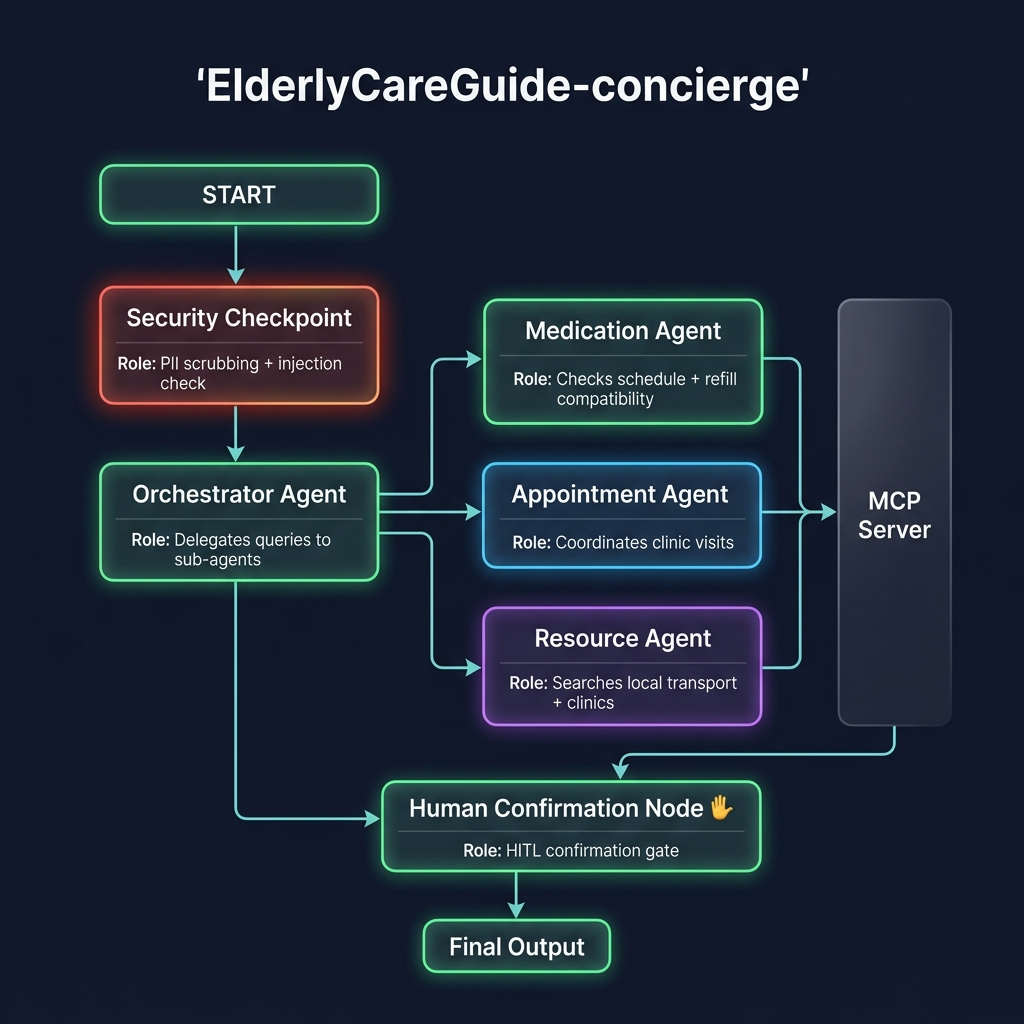
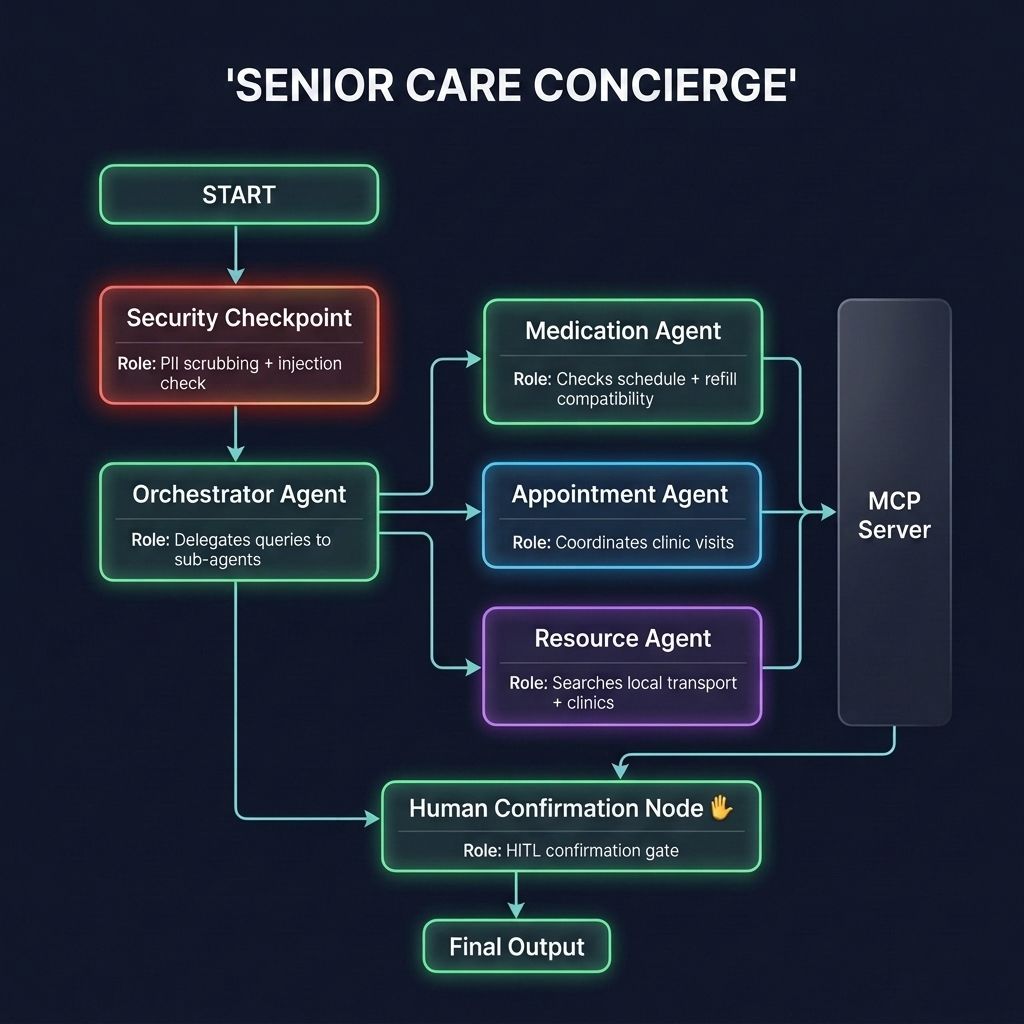
Initial commit: elderlycareguide-concierge ADK agent

Changed region(s): [[0.1875, 0.0625, 0.7812, 0.125]]

diff --git a/README.md b/README.md
@@ -147,7 +147,7 @@ make run
    git add .
    git commit -m "Initial commit: elderlycareguide-concierge ADK agent"
    git branch -M main
-   git remote add origin https://github.com/<your-username>/elderlycareguide-concierge.git
+   git remote add origin https://github.com/KKSRES/senior-care-concierge.git
    git push -u origin main
    ```
 